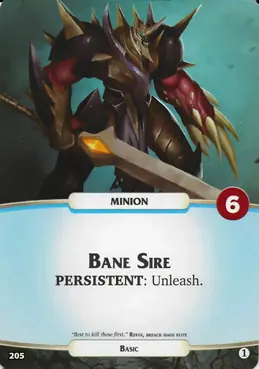
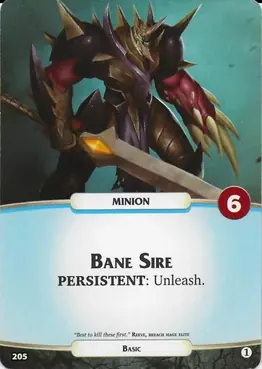
Bane Sire: webp con la versione nuova (codice 205); ToDo aggiornato con lo stato al 28/11

diff --git a/ToDo.md b/ToDo.md
@@ -1,6 +1,43 @@
 # Grandi miglioramenti:
 [x] Aggiungere ordine turno
-[] Implementare biblioteca carte e assistente per la creazione del mercato
+[x] Implementare biblioteca carte (Nemesi, Mercato, Tesori, Preferiti; box 1, 2, 4, 5 e mini espansioni)
+[] Assistente per la creazione del mercato
+
+# Stato al 28/11 (dai commit del 26-27/11)
+Fatto:
+- [x] Biblioteca: pulsante nel menu, Mercato a tutto schermo, filtri su una riga (ricerca, box, meccaniche, costo), chip dei filtri attivi, preferiti con la stella e sezione Preferiti
+- [x] Biblioteca: carte tutte della stessa altezza, angoli come nelle partite, pannello sotto la carta con box e meccaniche, simbolo Aether
+- [x] Dati: cards_nemesis.json, cards_supply.json, cards_treasure.json, mechanics.json; box 2 e 5 (con mini espansioni) importati
+- [x] Collezione: si possono scegliere solo le wave 1, 2, 4 e 5
+- [x] import-db trova le immagini nemesi anche con il prefisso "1 - " nelle cartelle del DataBase (Bane Sire aggiornata; carte nemesi da 243 a 469)
+- [x] Nemesi: retro delle carte salvato (campo back), campo toDiscardSpend, controllo automatico POWER n (npm run check)
+- [x] Versione automatica v0.3.x nel menu iniziale
+- [x] Mazzo dei turni: linea del tempo sotto le carte; token della nemesi nella finestra Pesca nuovo turno
+Da fare:
+- [] Assistente per la creazione del mercato
+- [x] Barra dei turni (sezione sotto)
+- [x] Menu principale: Continua partita e Opzioni (collezione, back, sfondo, lingua, animazione)
+- [] Regole dentro il gioco
+- [] Creare il menu "modalità" e forse ristrutturare in menu inizia partita
+- [] Mettere bene le lingue, mettere francese e tedesco
+
+# Generale:
+- [] rifare menu iniziale sopratutto titolo e "riprendi partita"
+- [] capire come gestire la "collezione". possibilità:
+    * togliere la collezione così nella biblioteca posso vedere tutto e poi la seleziono nel menu wave dentro nuova partita. in quesot modo posso fare boss anche che non ho. 
+    * se invece tengo la collezione posso mettere un simbolo (lucchetto chiuso o aperto) per le nemesi che posso giocatore anche se non ho la scatola. 
+- [] mettere in ordine per battaglia le nemesi nel menu nemesi di nuova partita
+
+
+# Biblioteca:
+- [] Togliere preferiti dal menu a tendina in alto
+- [] Aggiungere logi/icone per Nemesi, Mercato e Tesori
+- [] Rivedere il menu delle scatola, mettere le spedizioni indentate a destra sotto le wave e togliere x.y * NAME, tenere solo x * NAME
+- [] mettere il numero di carte avvianco al costo nel menu del costo
+- [] aggiungere "seleziona tutto" nel menu costo e boxes
+- [] aggiungere "tutti" nel menu in basso quindi gemme/reliqui/incantesimi insieme
+- [] nel menu meccaniche le voglio vedere tutte ma sono oscurate (non selezionabili) quelle relative a tipi di carte che non sto vedendo. affianco al nome della meccanica mettere il tipo, non solo il numero. Es: "Dual Breach"[icona incantesimo] (numero delle carte)
+
 
 # Scheda Mazzo Turno 
 - Interazione necessarie (solo The New Age e Core Set):
@@ -50,13 +87,13 @@ quella che lo scheletro chiama barra della fase è la barra dei turni, non la ba
 - [x] le wave non numerarle con numeri arabi ma con numeri romani
 - [x] Aggiungere la scelta del back delle carte come valore estetico e customizzabile in più (idea: mettere il back delle carte da briscola)
 - Mettere le regole dentro il Gioco, magari copiando la wiki o addirittura mettendo una parte di ai (chiamata API)
-- rorfare il webp di bane sire
+- [x] rorfare il webp di bane sire (commit 89047e5)
 - il box per il divieto rosso sulle carte potere più piccolo
 -  
 
 # Menu Principale 
 - [x] togliere il box dei pulsanti, mostra solo le scritte
-- Ci deve essere: Nuova Partita, continua partita, opzioni, Biblioteca
+- Ci deve essere: Nuova Partita, continua partita, opzioni, Biblioteca (Biblioteca fatta)
 - Opzioni -> collezione, scelta back, scelta sfondo, scelta lingua, scelta se fare animazione di creazione mazzo
 
 # Menu Nuova Partita
